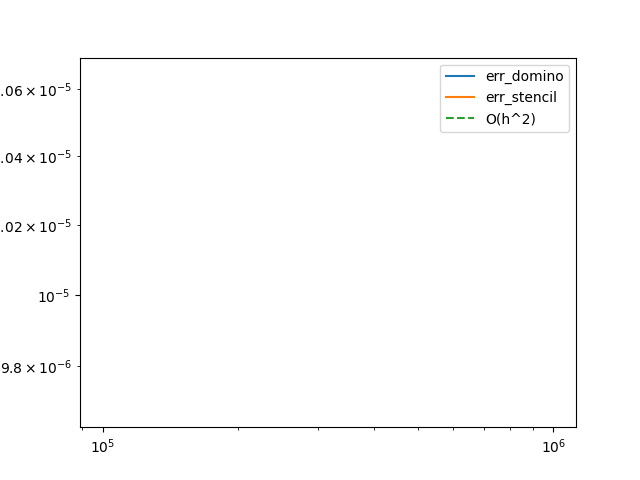
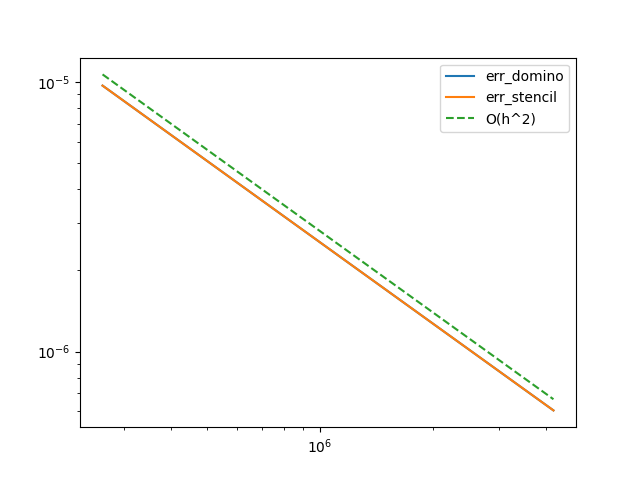
domino optim (2)

diff --git a/test/rkprop/SOMSHtest.py b/test/rkprop/SOMSHtest.py
@@ -62,20 +62,33 @@ for k in range(9,12):
     hvec = np.append(hvec,h)
     
     tic = time.time()
-    _reg = {}
-    SOMSmerge.interface_map = lambda a, b: _reg.get((a,b), None)
+    # _reg_levels[lvl] holds the imaps registered at tree level lvl.
+    # Sibling pairs (first entries in adjacency[lvl]) are needed by the solve.
+    # Cross pairs (remaining entries) are only needed during the build.
+    _reg_levels = [dict() for _ in range(tree.nlevels)]
+    n_sibling = [len(list(tree.get_nodes_level(lvl-1))) if lvl > 0 else 0
+                 for lvl in range(tree.nlevels)]
+
+    def interface_map_fn(a, b):
+        for d in _reg_levels:
+            v = d.get((a, b))
+            if v is not None: return v
+        return None
+
+    SOMSmerge.interface_map = interface_map_fn
     compute_errs = False
     errors = []
     S_hor = build_imap(nx, ny, dx, dy, 'horizontal',kh)
     S_ver = build_imap(nx, ny, dx, dy, 'vertical',kh)
+    leaf_level = tree.nlevels - 1
     for (a, b, ori) in tree.adjacency[-1]:
         ba = tree.get_node(a).bounds; bb = tree.get_node(b).bounds
         if ori == 'horizontal':
             left, right = (a,b) if ba[0] < bb[0] else (b,a)
-            _reg[(left, right)] = S_hor
+            _reg_levels[leaf_level][(left, right)] = S_hor
         else:
             bot, top = (a,b) if ba[2] < bb[2] else (b,a)
-            _reg[(bot, top)] = S_ver
+            _reg_levels[leaf_level][(bot, top)] = S_ver
         if compute_errs:
                 a_node = tree.get_node(a)
                 b_node = tree.get_node(b)
@@ -109,7 +122,7 @@ for k in range(9,12):
             sig_node = tree.get_node(sig_idx)
 
             imap = merge_S(tau_idx, sig_idx, dir, tree)
-            _reg[(tau_idx, sig_idx)] = imap
+            _reg_levels[level][(tau_idx, sig_idx)] = imap
 
             if compute_errs:
                 if dir == 'horizontal':
@@ -144,6 +157,13 @@ for k in range(9,12):
         if compute_errs:
             print(f"  --> Level {level}: max err over level ={max(errors):.2e}\n")
         print("level ",level," done.")
+
+        # Purge cross-pair imaps from level+1: these were the inputs to this
+        # merge step and are never needed again (solve only uses sibling pairs).
+        # Sibling pairs are the first n_sibling[level+1] entries of adjacency[level+1].
+        child_level = level + 1
+        for (tau_idx, sig_idx, _) in tree.adjacency[child_level][n_sibling[child_level]:]:
+            _reg_levels[child_level].pop((tau_idx, sig_idx), None)
     
 
     root = tree.get_node(0)
@@ -154,6 +174,10 @@ for k in range(9,12):
     b_root = bc_loc(XYb)
     tree.set_u(root,b_root)
     tree.solve(root,interface_map=lambda t,s:SOMSmerge.interface_map(t,s),dir='vertical')
+
+    # Solve complete — purge all remaining sibling-pair imaps
+    for d in _reg_levels:
+        d.clear()
     leaves = tree.get_leaves()
     err = 0.
     for node in tree.get_nodes_level(tree.nlevels-1):
@@ -168,20 +192,20 @@ for k in range(9,12):
     err_vec=np.append(err_vec,err)
     time_vec = np.append(time_vec,time.time()-tic)
     print("elapsed_time = ",time.time()-tic)
-    tic = time.time()
-    L = SOMSmergeTest.sparse_helmholtz_stencil(Nx,Ny,h,h,kh)
-    Ii = np.where((XY[:,0]>0)&(XY[:,0]<1)&(XY[:,1]>0)&(XY[:,1]<1))[0]
-    Ib = np.where((XY[:,0]==0)|(XY[:,0]==1)|(XY[:,1]==0)|(XY[:,1]==1))[0]
+    #tic = time.time()
+    #L = SOMSmergeTest.sparse_helmholtz_stencil(Nx,Ny,h,h,kh)
+    #Ii = np.where((XY[:,0]>0)&(XY[:,0]<1)&(XY[:,1]>0)&(XY[:,1]<1))[0]
+    #Ib = np.where((XY[:,0]==0)|(XY[:,0]==1)|(XY[:,1]==0)|(XY[:,1]==1))[0]
 
-    Lii = L[Ii,:][:,Ii]
-    Lib = L[Ii,:][:,Ib]
-    ub = bc_loc(XY[Ib,:])
-    ui = bc_loc(XY[Ii,:])
-    lu = splinalg.splu(Lii)
-    uhat = -lu.solve(Lib@ub)
-    print("err of full stencil sol = ",np.linalg.norm(ui-uhat,np.inf))
-    err_vec_full_stencil = np.append(err_vec_full_stencil,np.linalg.norm(ui-uhat,np.inf))
-    time_vec_full_stencil = np.append(time_vec_full_stencil,time.time()-tic)
+    #Lii = L[Ii,:][:,Ii]
+    #Lib = L[Ii,:][:,Ib]
+    #ub = bc_loc(XY[Ib,:])
+    #ui = bc_loc(XY[Ii,:])
+    #lu = splinalg.splu(Lii)
+    #uhat = -lu.solve(Lib@ub)
+    #print("err of full stencil sol = ",np.linalg.norm(ui-uhat,np.inf))
+    #err_vec_full_stencil = np.append(err_vec_full_stencil,np.linalg.norm(ui-uhat,np.inf))
+    #time_vec_full_stencil = np.append(time_vec_full_stencil,time.time()-tic)
 
 fac = time_vec[0]/(Nvec[0]**(1.5))
 fac2 = time_vec[0]/(Nvec[0]**(1))